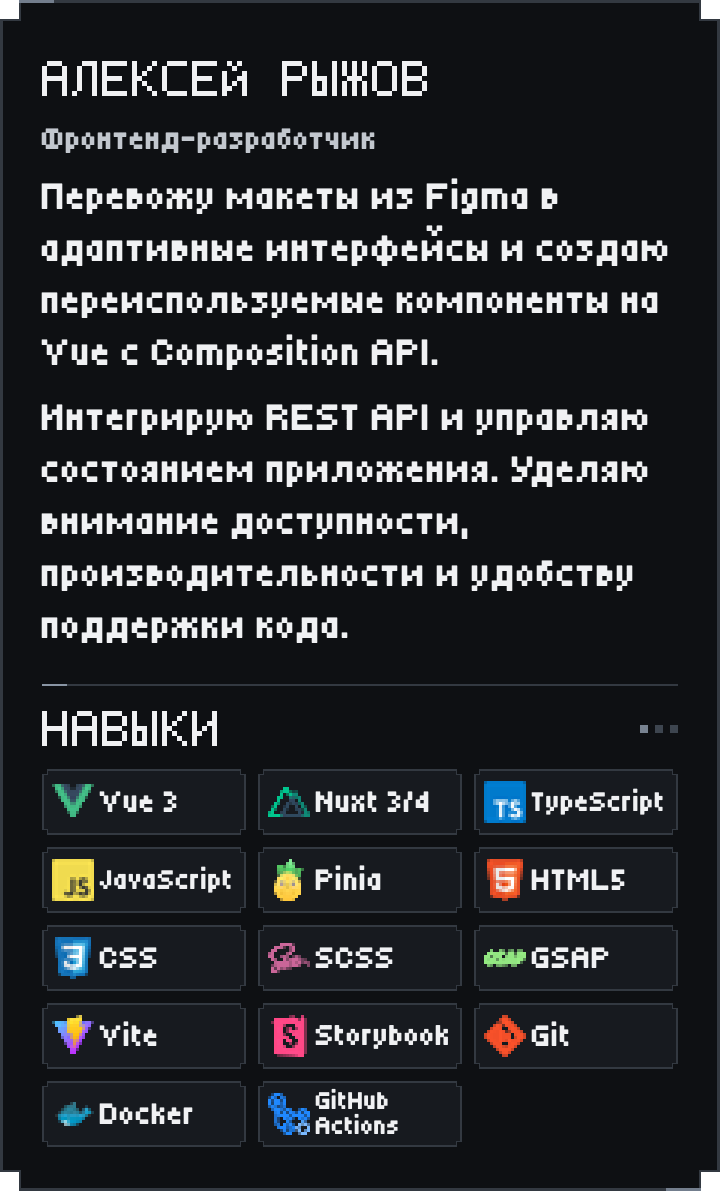
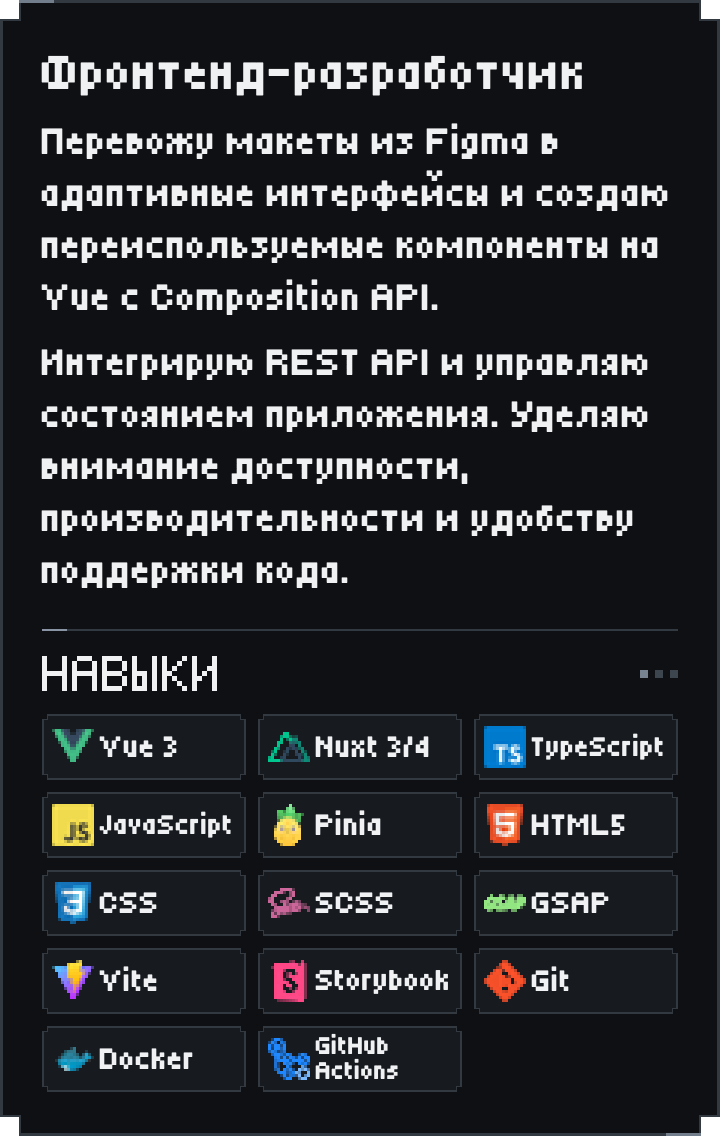
Remove personal name from the profile cards

Changed region(s): [[0.0306, 0.0308, 0.9472, 0.9859], [0.8861, 0.5854, 0.9472, 0.647], [0.6111, 0.6162, 0.6417, 0.647]]

diff --git a/README.md b/README.md
@@ -2,7 +2,7 @@
 
 <picture>
   <source media="(max-width: 960px)" srcset="assets/profile/about/pixel-card-mobile.png">
-  <img src="assets/profile/about/pixel-card.png" alt="Алексей Рыжов. Фронтенд-разработчик. Перевожу макеты из Figma в адаптивные интерфейсы и создаю переиспользуемые компоненты на Vue с Composition API. Интегрирую REST API и управляю состоянием приложения. Уделяю внимание доступности, производительности и удобству поддержки кода. Навыки — Vue 3, Nuxt 3/4, TypeScript, JavaScript, Pinia, HTML5, CSS, SCSS, GSAP, Vite, Storybook, Git, Docker, GitHub Actions.">
+  <img src="assets/profile/about/pixel-card.png" alt="Фронтенд-разработчик. Перевожу макеты из Figma в адаптивные интерфейсы и создаю переиспользуемые компоненты на Vue с Composition API. Интегрирую REST API и управляю состоянием приложения. Уделяю внимание доступности, производительности и удобству поддержки кода. Навыки — Vue 3, Nuxt 3/4, TypeScript, JavaScript, Pinia, HTML5, CSS, SCSS, GSAP, Vite, Storybook, Git, Docker, GitHub Actions.">
 </picture>
 
 <h2 id="инструменты-для-разработчиков">
